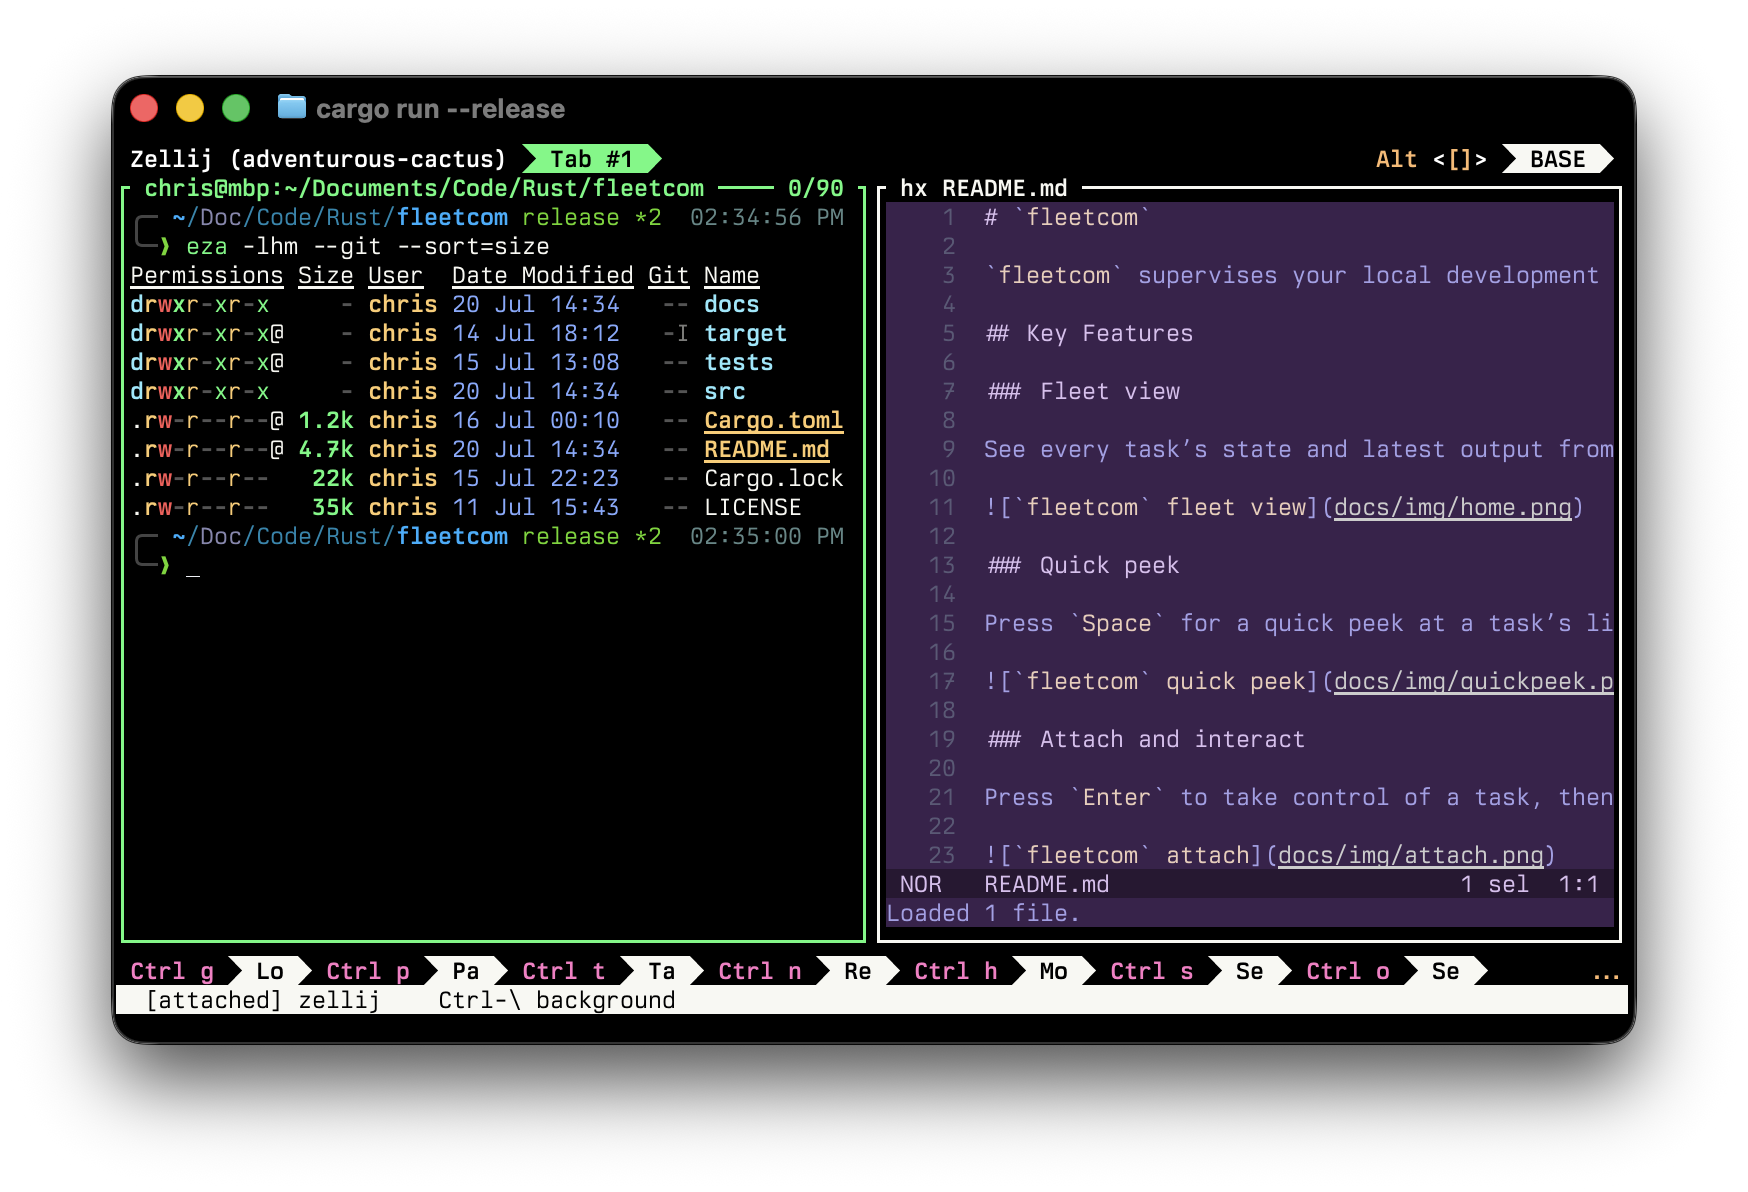
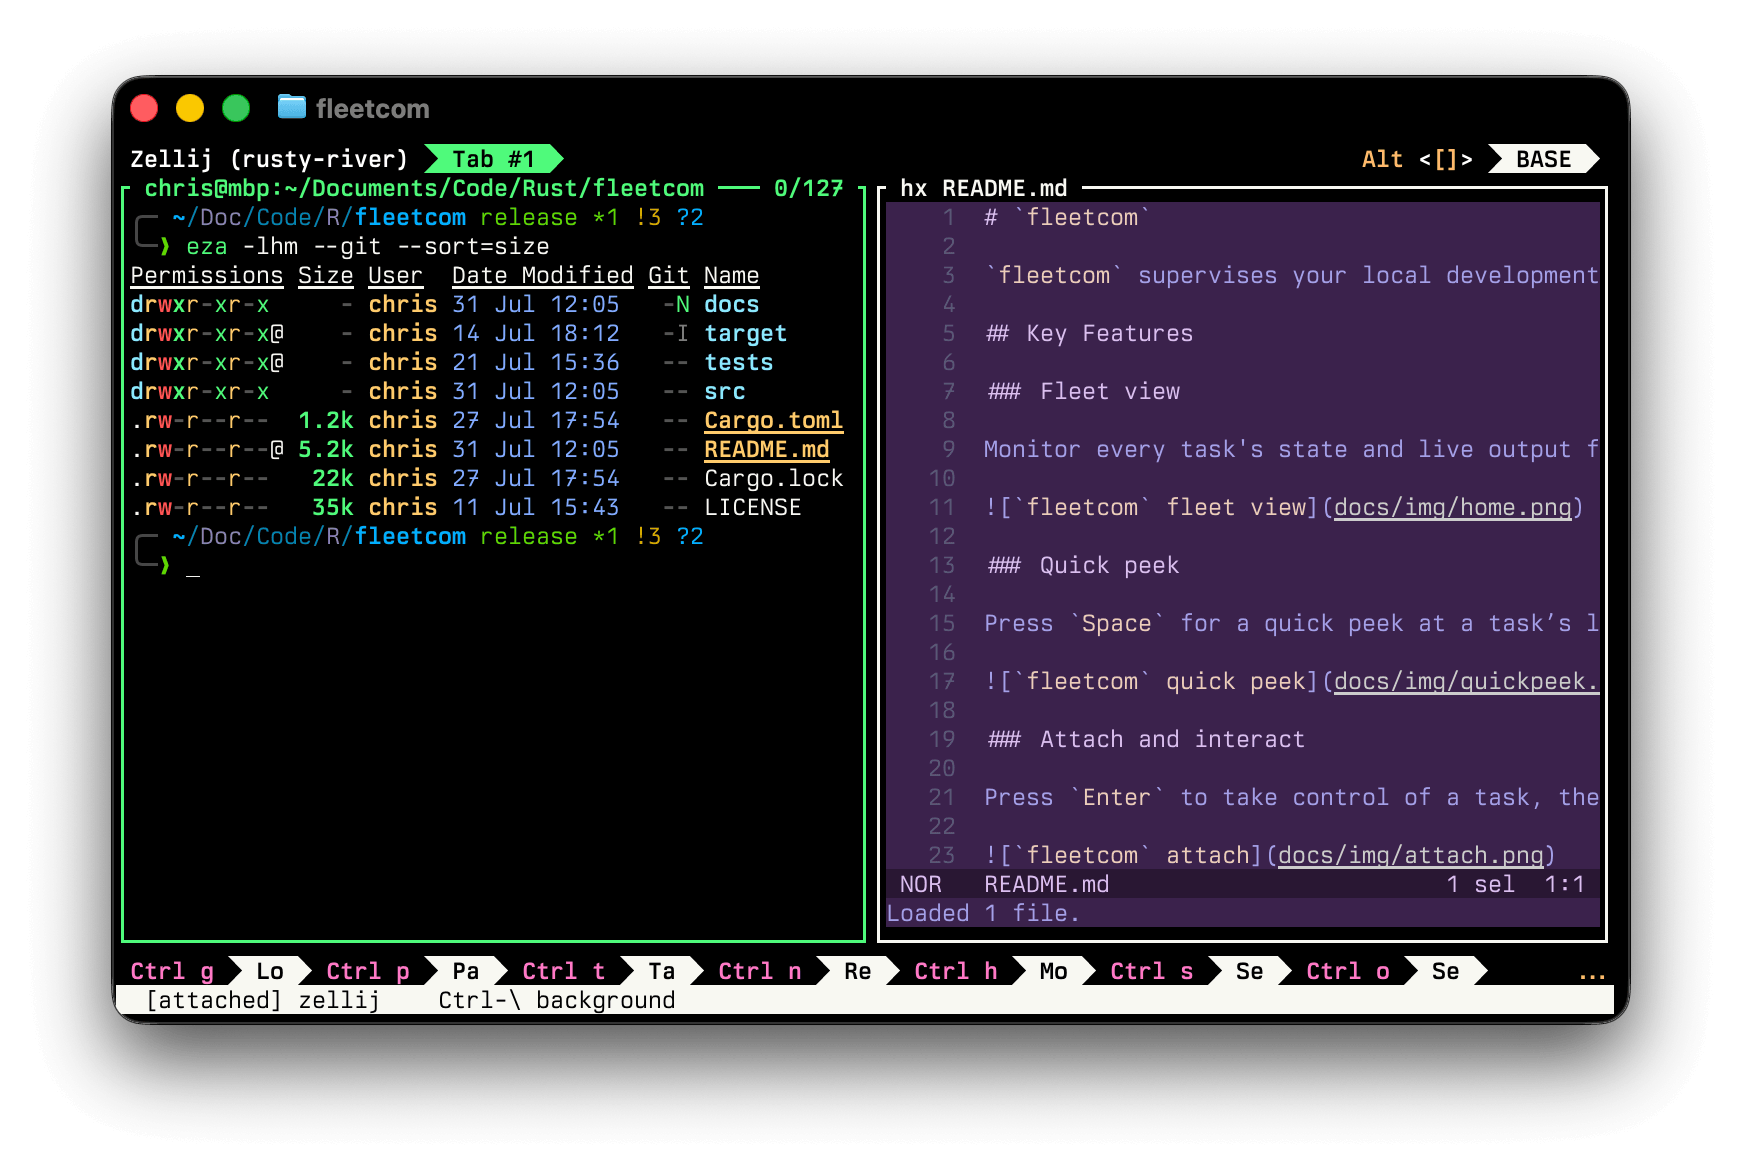
docs: add images for fleet and group views in documentation

Changed region(s): [[0.062, 0.0614, 0.93, 0.8908], [0.558, 0.2765, 0.682, 0.3379]]

diff --git a/README.md b/README.md
@@ -26,6 +26,8 @@ Press `Enter` to take control of a task, then `Ctrl-\` to return to the dashboar
 
 Start `claude`, `codex`, or `grok` normally. When you rerun the task or reload a saved session, `fleetcom` resumes the same conversation automatically.
 
+![`fleetcom` group view](docs/img/groups.png)
+
 ## Operational model
 
 Running several long-lived commands is pesky once they span terminal panes or need to survive a disconnect. `fleetcom`:

diff --git a/docs/commands.md b/docs/commands.md
@@ -40,6 +40,8 @@
 | `q` (or `Ctrl-C`) | Disconnect; leave the daemon and tasks running |
 | `Q` | Quit; kill the tasks and stop the daemon |
 
+![`fleetcom` fleet view](img/controls.png)
+
 ### Status glyphs
 
 | Glyph | Meaning |
